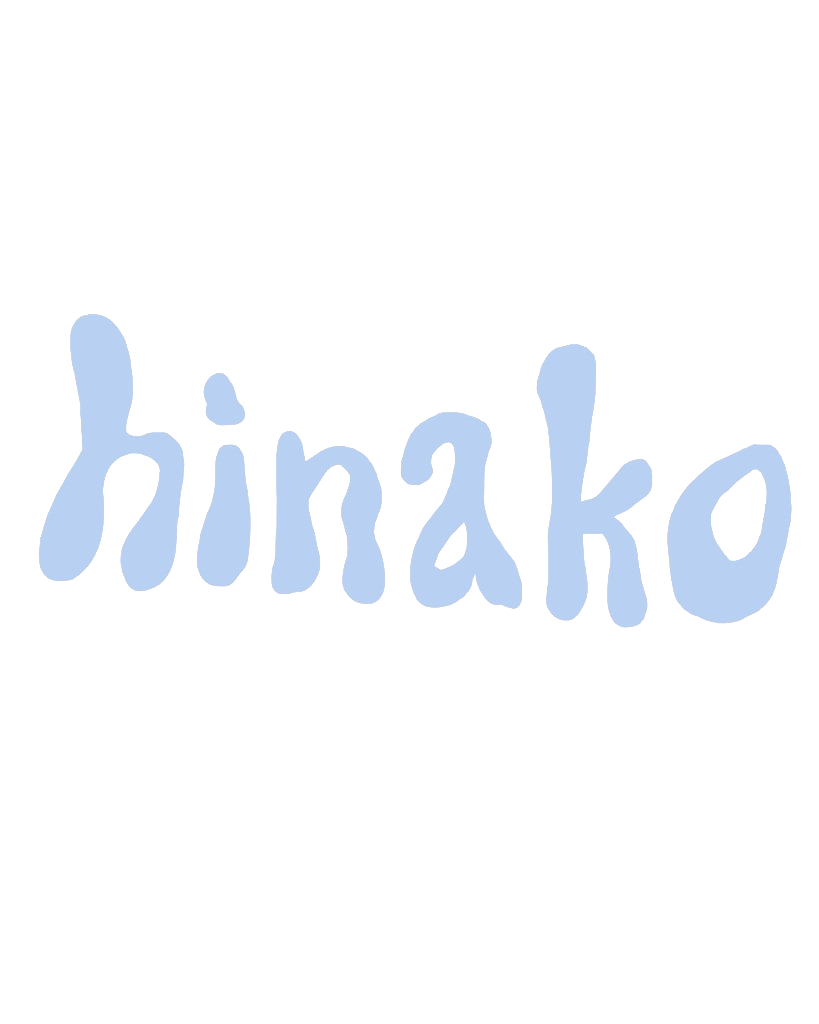
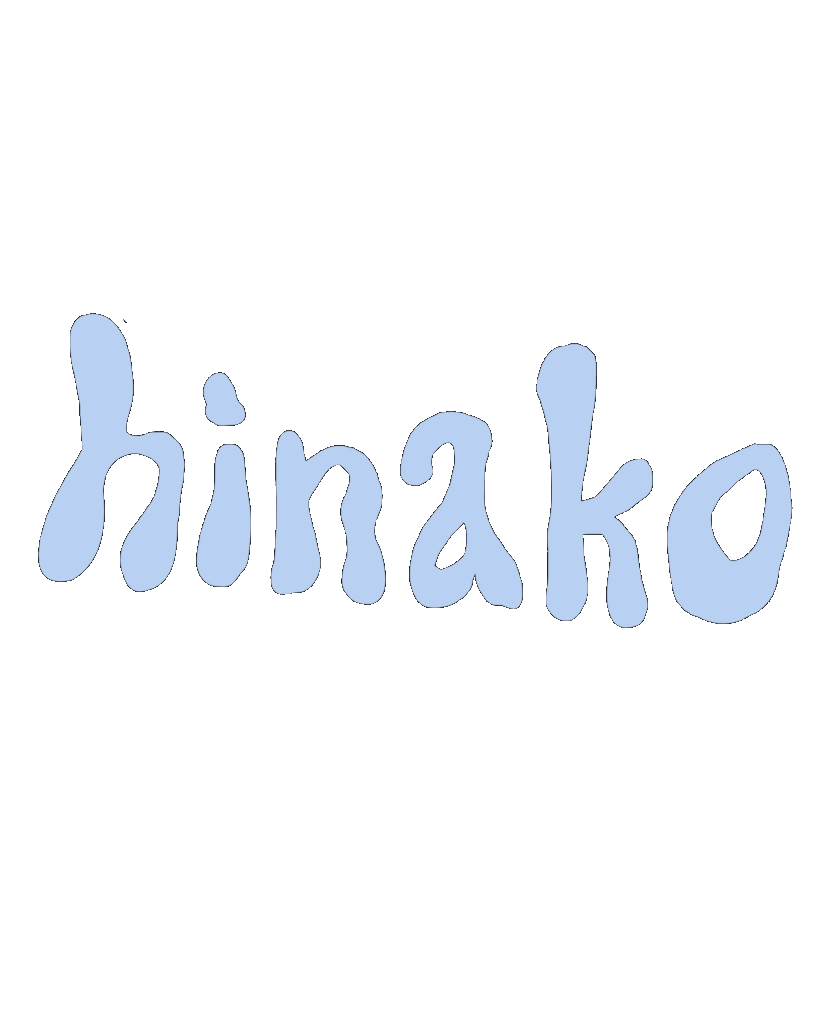
Replace wordmark with new horizontal hinako art (transparent)

diff --git a/src/assets/images.ts b/src/assets/images.ts
@@ -6,7 +6,7 @@
  */
 
 export const images = {
-  /** Hand-drawn bubble wordmark PNG (vertical art) */
+  /** Hand-drawn “hinako” bubble wordmark (RGBA, transparent) */
   wordmark: "/images/wordmark.png",
   /** Real product photo (prototype in hand) */
   product: "/images/product.png",
